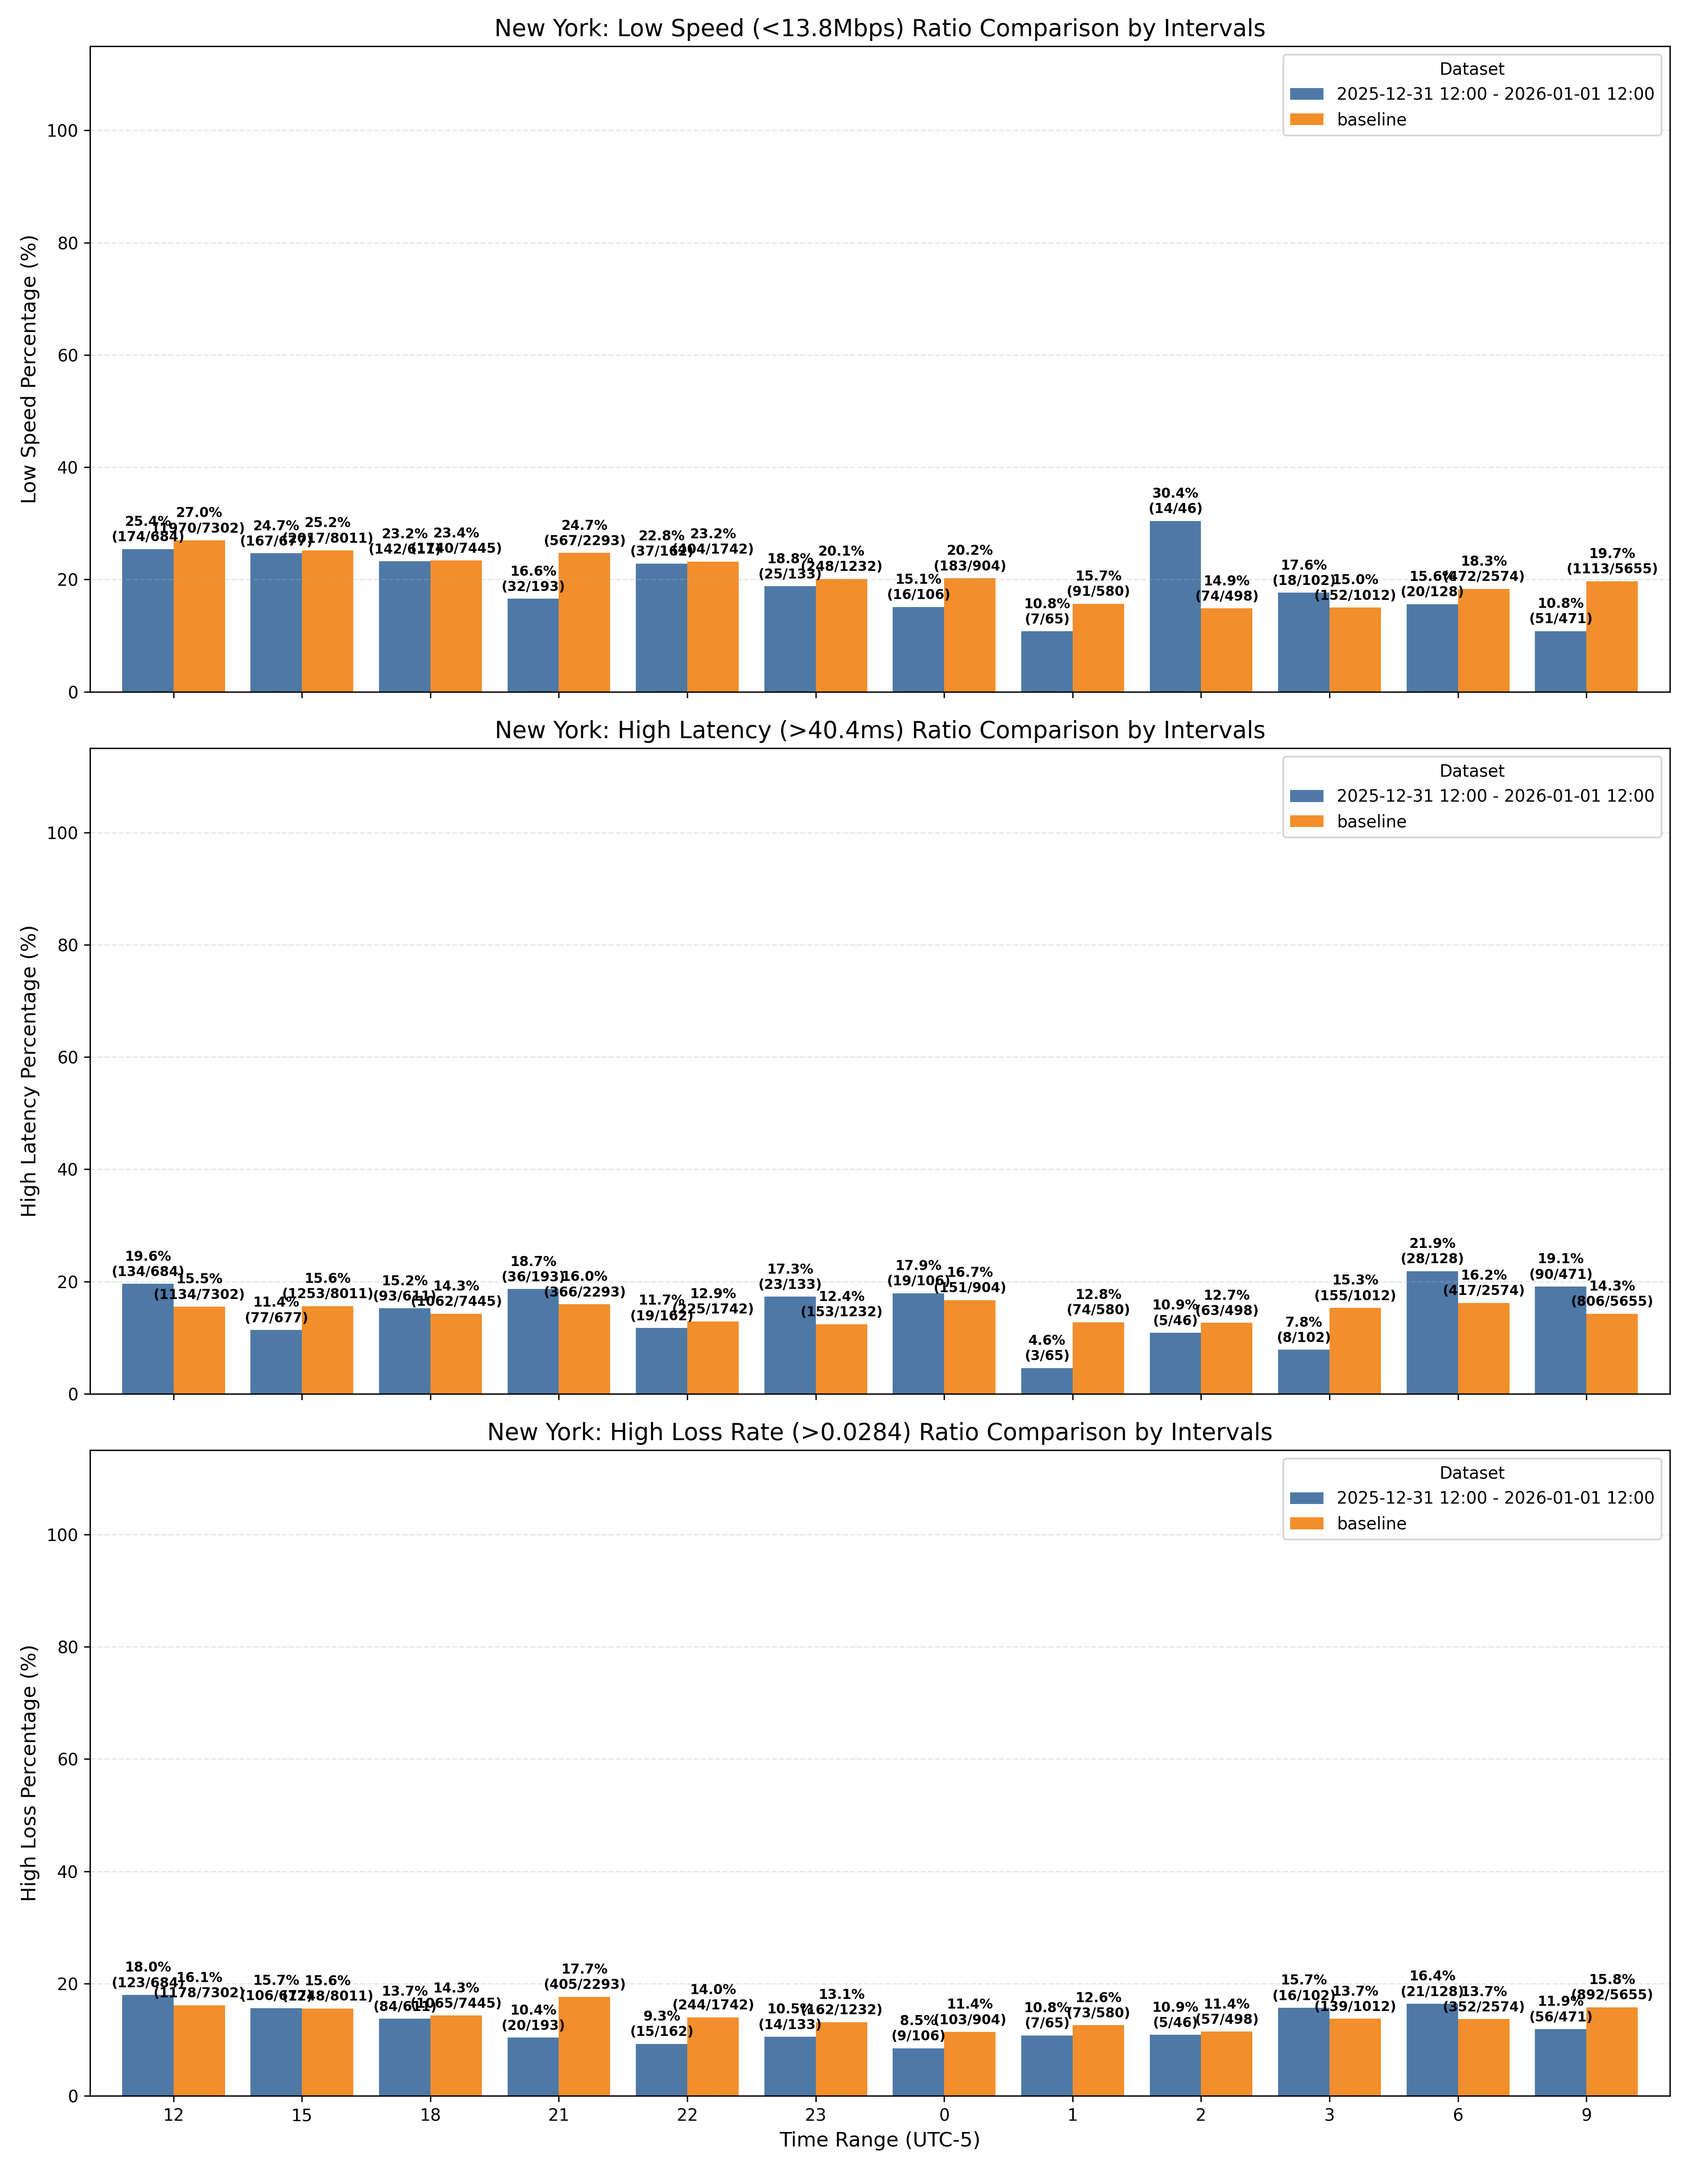
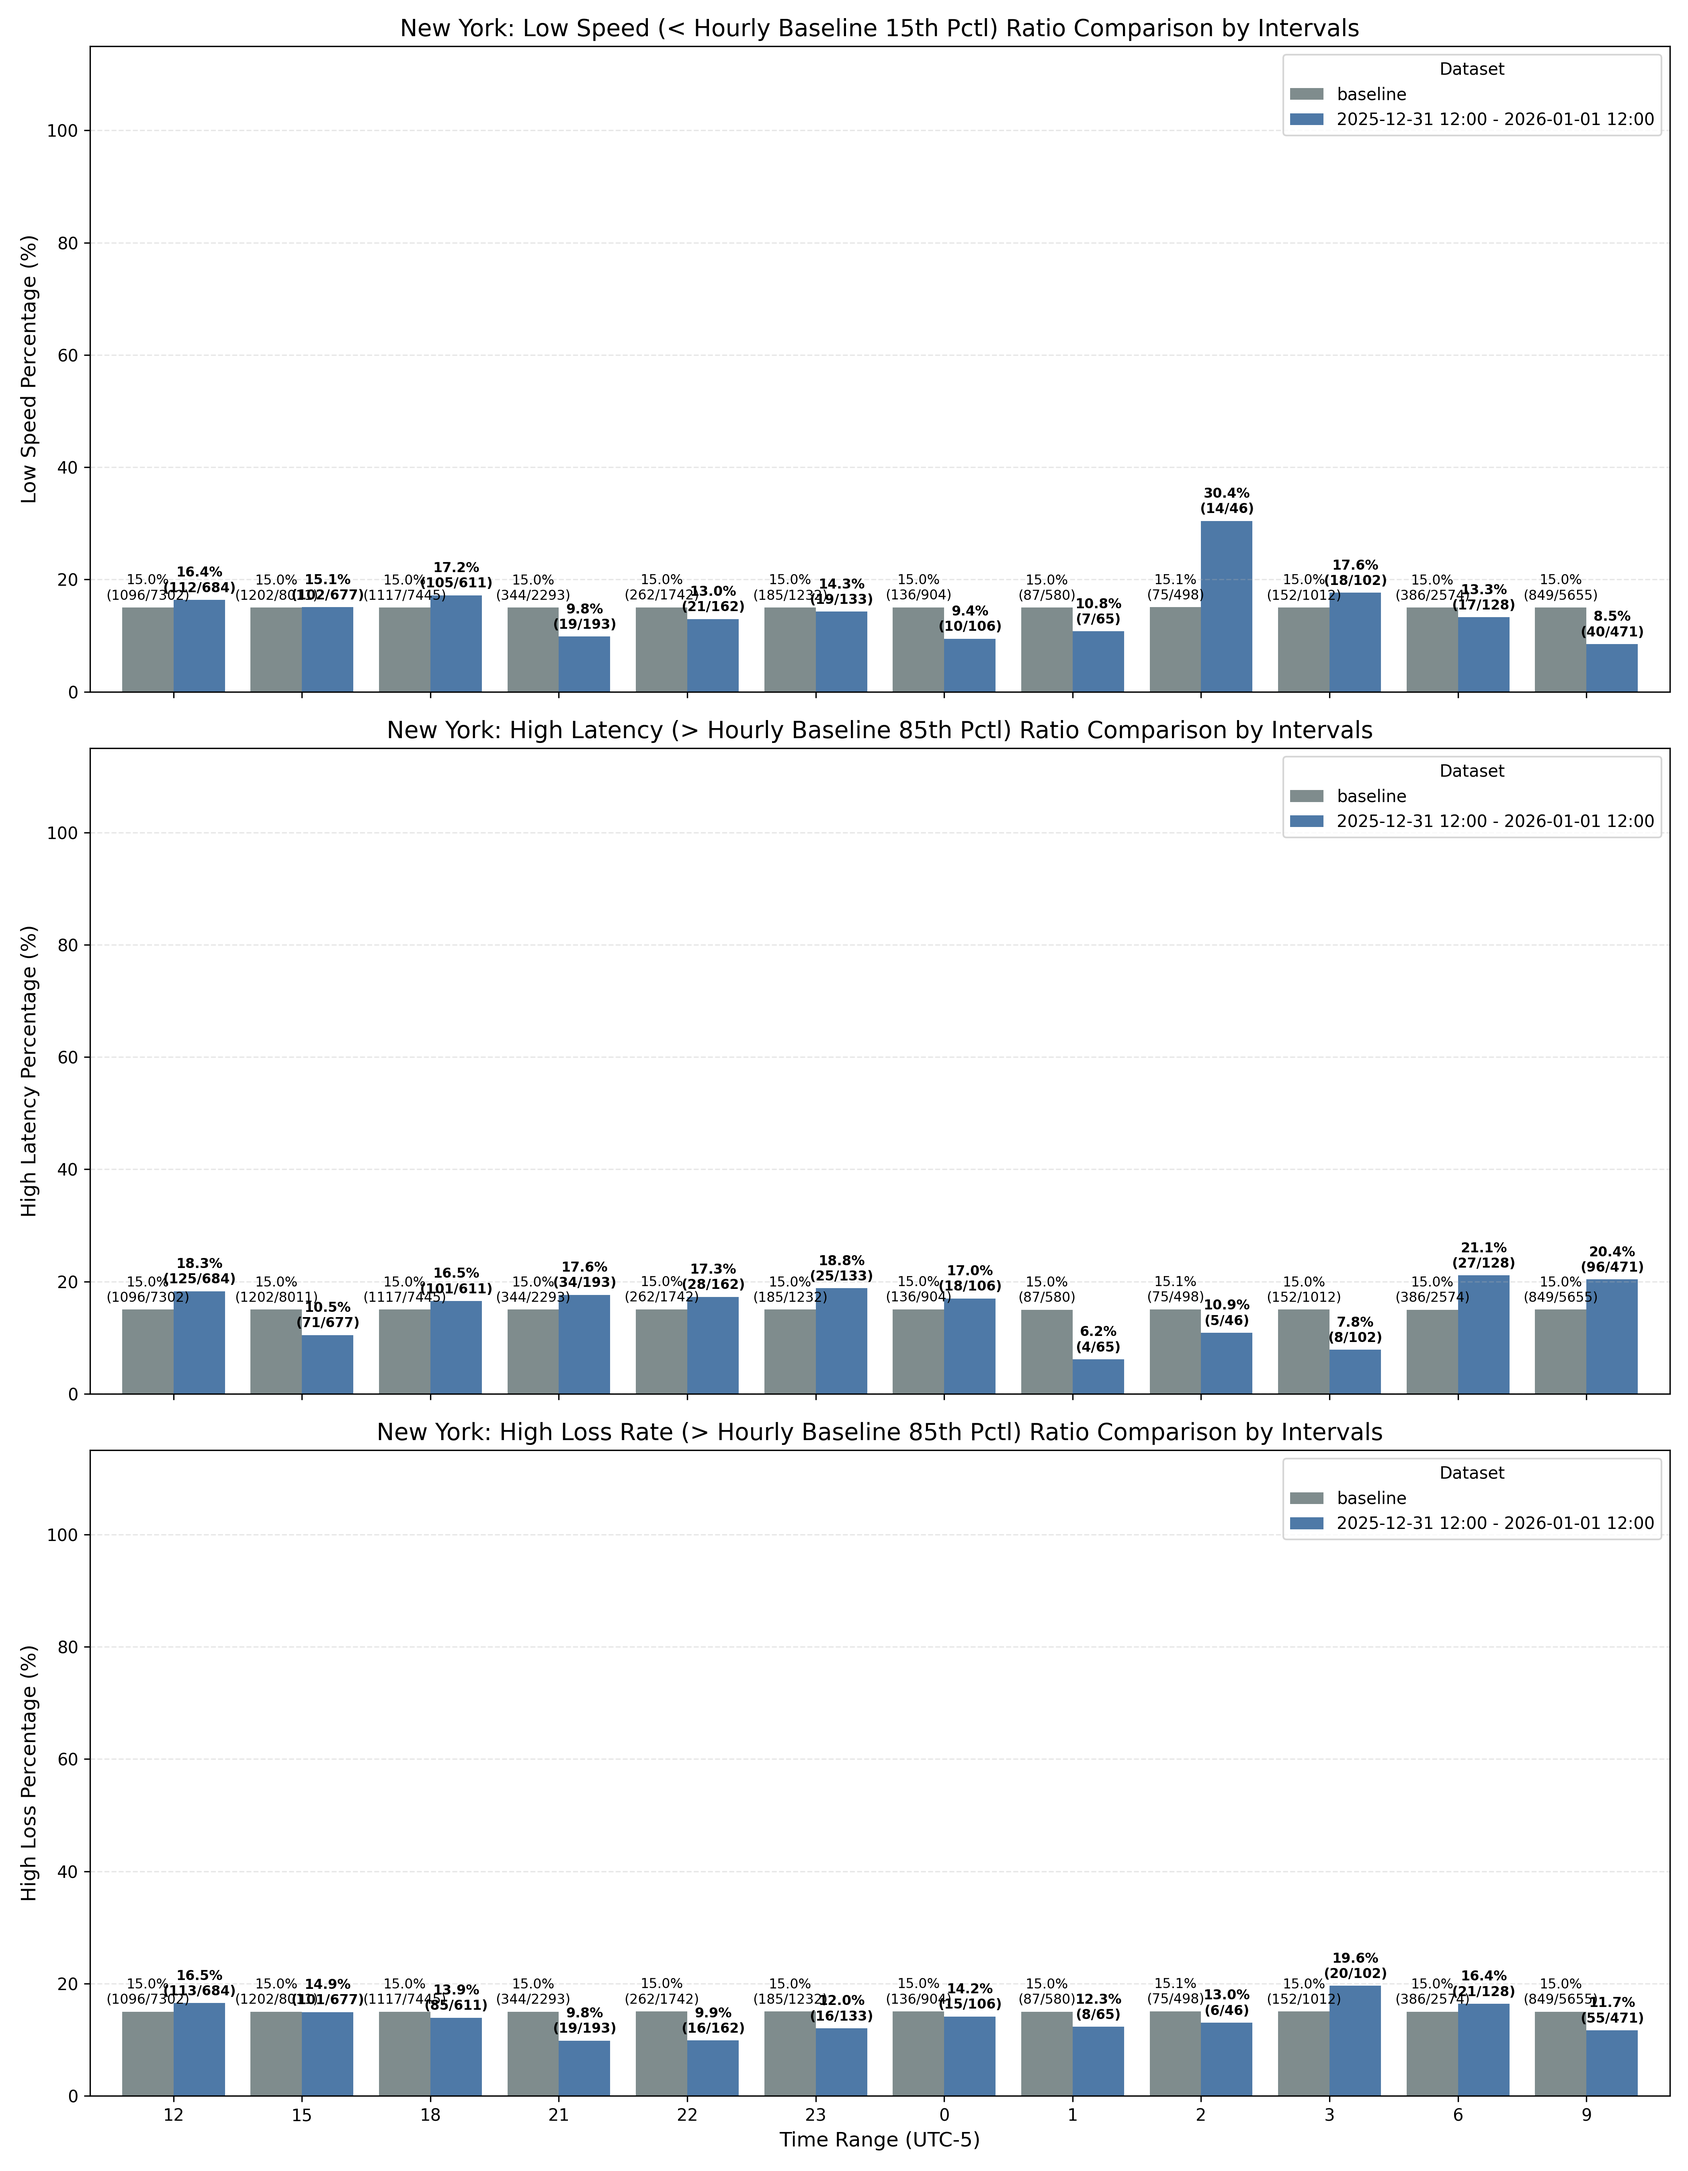
Fix global ratio issue

diff --git a/main.py b/main.py
@@ -1,6 +1,7 @@
 import json
 from typing import List, Dict
 import pandas as pd
+import numpy as np
 import matplotlib.pyplot as plt
 
 CITY = "Taipei City"
@@ -425,47 +426,61 @@ def plot_network_performance_report_2(
     timezone: int,
     output_path: str = "network_performance_report.png",
 ):
-    """輸入多個 df (以 dict 傳入名稱)，將各時段內所有日期的資料加總平均，
-    並繪製三聯子圖。
+    """輸入多個 df (以 dict 傳入，包含 'baseline' 與跨年資料)，
+    依據各時段（HourRange）的平日基準計算動態門檻，並繪製三聯子圖進行對比。
     
     指標調整：
-    - 子圖 1 (Speed): 低於 15% 門檻的資料佔比
-    - 子圖 2 (Latency): 高於 85% 門檻的資料佔比
-    - 子圖 3 (Loss): 高於 85% 門檻的資料佔比
+    - 子圖 1 (Speed): 低於該小時平日 15% 門檻的資料佔比
+    - 子圖 2 (Latency): 高於該小時平日 85% 門檻的資料佔比
+    - 子圖 3 (Loss): 高於該小時平日 85% 門檻的資料佔比
     """
     
     # -------------------------------------------------------------------------
-    # ✨ 核心修改 1：全域門檻計算
-    # 為了讓「高於 85% 占比」有比較意義，我們需要先算出全體（或某一基準）的 85 百分位數作為固定門檻
+    # ✨ 核心修改 1：從 baseline 計算「每小時動態門檻」
     # -------------------------------------------------------------------------
-    all_processed_dfs = []
-    for name, df in df_dict.items():
-        filtered_df = _preprocess_df(df, city).copy()
-        if not filtered_df.empty:
-            filtered_df["Dataset"] = name
-            all_processed_dfs.append(filtered_df)
-            
-    if not all_processed_dfs:
-        print("錯誤：沒有任何有效的繪圖數據。")
+    if "baseline" not in df_dict:
+        print("錯誤：輸入的 df_dict 中必須包含 'baseline' 鍵值作為基準數據。")
         return
 
-    # 合併所有未聚合的原始資料，用來計算全局的第 85 百分位數門檻
-    # (你也可以手動指定固定數值，例如 latency_threshold = 100)
-    global_df = pd.concat(all_processed_dfs, ignore_index=True)
-    speed_threshold = global_df["Latency"].quantile(0.15)
-    latency_threshold = global_df["Latency"].quantile(0.85)
-    loss_threshold = global_df["LossRate"].quantile(0.85)
+    # 先預處理基準資料
+    baseline_filtered = _preprocess_df(df_dict["baseline"], city).copy()
+    if baseline_filtered.empty:
+        print("錯誤：Baseline 數據經過過濾後為空，無法建立門檻。")
+        return
 
-    print(f"依據全體數據計算之 85% 門檻 -> 延遲: {latency_threshold:.2f} ms, 丟包率: {loss_threshold:.4f}")
+    # 依據 HourRange 計算平日每小時的 15% 與 85% 百分位數
+    # 這裡使用 observed=False 確保 Categorical 欄位行為正常
+    thresh_df = (
+        baseline_filtered.groupby("HourRange", observed=False)
+        .agg(
+            speed_threshold=("Speed", lambda x: x.quantile(0.15) if len(x) > 0 else 15.0),
+            latency_threshold=("Latency", lambda x: x.quantile(0.85) if len(x) > 0 else 40.0),
+            loss_threshold=("LossRate", lambda x: x.quantile(0.85) if len(x) > 0 else 0.1),
+        )
+        .reset_index()
+    )
 
+    # -------------------------------------------------------------------------
+    # ✨ 核心修改 2：將動態門檻對齊到所有資料集（含 baseline 自己）並計算超標率
+    # -------------------------------------------------------------------------
     all_groups = []
-    for filtered_df in all_processed_dfs:
-        name = filtered_df["Dataset"].iloc[0]
+    for name, df in df_dict.items():
+        filtered_df = _preprocess_df(df, city).copy()
+        if filtered_df.empty:
+            continue
 
-        # 標記是否超過門檻
-        filtered_df["IsLowSpeed"] = filtered_df["Speed"] < speed_threshold
-        filtered_df["IsHighLatency"] = filtered_df["Latency"] > latency_threshold
-        filtered_df["IsHighLoss"] = filtered_df["LossRate"] > loss_threshold
+        # 將該小時對應的門檻透過 merge 併入當前資料集
+        filtered_df = filtered_df.merge(thresh_df, on="HourRange", how="left")
+        
+        # 安全防護：若有特定時段在 baseline 沒出現，給予預設值
+        filtered_df["speed_threshold"] = filtered_df["speed_threshold"].fillna(15.0)
+        filtered_df["latency_threshold"] = filtered_df["latency_threshold"].fillna(40.0)
+        filtered_df["loss_threshold"] = filtered_df["loss_threshold"].fillna(0.1)
+
+        # 標記是否超越該小時的動態門檻
+        filtered_df["IsLowSpeed"] = filtered_df["Speed"] < filtered_df["speed_threshold"]
+        filtered_df["IsHighLatency"] = filtered_df["Latency"] > filtered_df["latency_threshold"]
+        filtered_df["IsHighLoss"] = filtered_df["LossRate"] > filtered_df["loss_threshold"]
 
         # 一次性聚合所有需要的統計量（數量與分子）
         grouped = (
@@ -484,27 +499,32 @@ def plot_network_performance_report_2(
         )
         
         # 計算各指標的「超標百分比」與「標籤文字 (分子/分母)」
-        grouped["LowSpeedPercentage"] = (grouped["Speed_Sum"] / grouped["Speed_Count"]) * 100
-        grouped["SpeedLabelText"] = grouped["Speed_Sum"].astype(str) + "/" + grouped["Speed_Count"].astype(str)
+        grouped["LowSpeedPercentage"] = (grouped["Speed_Sum"] / grouped["Speed_Count"].replace(0, np.nan)) * 100
+        grouped["SpeedLabelText"] = grouped["Speed_Sum"].astype(str) + "/" + grouped["Speed_Count"].astype(str) # type: ignore
         
-        grouped["HighLatencyPercentage"] = (grouped["Latency_Sum"] / grouped["Latency_Count"]) * 100
-        grouped["LatencyLabelText"] = grouped["Latency_Sum"].astype(str) + "/" + grouped["Latency_Count"].astype(str)
+        grouped["HighLatencyPercentage"] = (grouped["Latency_Sum"] / grouped["Latency_Count"].replace(0, np.nan)) * 100
+        grouped["LatencyLabelText"] = grouped["Latency_Sum"].astype(str) + "/" + grouped["Latency_Count"].astype(str) # type: ignore
         
-        grouped["HighLossPercentage"] = (grouped["Loss_Sum"] / grouped["Loss_Count"]) * 100
-        grouped["LossLabelText"] = grouped["Loss_Sum"].astype(str) + "/" + grouped["Loss_Count"].astype(str)
+        grouped["HighLossPercentage"] = (grouped["Loss_Sum"] / grouped["Loss_Count"].replace(0, np.nan)) * 100
+        grouped["LossLabelText"] = grouped["Loss_Sum"].astype(str) + "/" + grouped["Loss_Count"].astype(str) # type: ignore
         
         grouped["Dataset"] = name
         all_groups.append(grouped)
 
+    if not all_groups:
+        print("錯誤：沒有任何有效的繪圖數據。")
+        return
+
     # 合併多組資料
     combined = pd.concat(all_groups, ignore_index=True)
+    combined.to_csv("test.csv", index=False)
 
     # 定義自訂的 X 軸時段順序
     custom_order = ["12", "15", "18", "21", "22", "23", "0", "1", "2", "3", "6", "9"]
     combined["HourRange"] = pd.Categorical(combined["HourRange"], categories=custom_order, ordered=True)
     combined = combined.sort_values("HourRange")
 
-    # 轉置各指標資料成繪圖矩陣
+    # 轉置各指標資料成繪圖矩陣（此時 columns 會包含 'baseline' 與跨年夜標籤）
     pivot_speed = combined.pivot(index="HourRange", columns="Dataset", values="LowSpeedPercentage").fillna(0)
     pivot_speed_labels = combined.pivot(index="HourRange", columns="Dataset", values="SpeedLabelText").fillna("0/0")
     
@@ -514,23 +534,35 @@ def plot_network_performance_report_2(
     pivot_loss = combined.pivot(index="HourRange", columns="Dataset", values="HighLossPercentage").fillna(0)
     pivot_loss_labels = combined.pivot(index="HourRange", columns="Dataset", values="LossLabelText").fillna("0/0")
 
+    # 確保 baseline 在圖例/柱狀圖排序中排在最前面，方便對比
+    if "baseline" in pivot_speed.columns:
+        cols_order = ["baseline"] + [c for c in pivot_speed.columns if c != "baseline"]
+        pivot_speed = pivot_speed[cols_order]
+        pivot_speed_labels = pivot_speed_labels[cols_order]
+        pivot_latency = pivot_latency[cols_order]
+        pivot_latency_labels = pivot_latency_labels[cols_order]
+        pivot_loss = pivot_loss[cols_order]
+        pivot_loss_labels = pivot_loss_labels[cols_order]
+
     # 建立 3x1 的畫布
     fig, (ax1, ax2, ax3) = plt.subplots(3, 1, figsize=(14, 18), sharex=True)
-    colors = ["#4E79A7", "#F28E2B", "#E15759", "#76B7B2", "#59A14F", "#EDC948"]
+    
+    # 調整顏色配比：基準組用灰色/冷色，對照組用鮮明色
+    colors = ["#7F8C8D", "#4E79A7", "#F28E2B", "#E15759", "#76B7B2"]
     color_slice = colors[:len(pivot_speed.columns)]
 
-    # --- 子圖 1: 低速比率 (Speed) - 保持不變 ---
+    # --- ✨ 核心修改 3：子圖標題與說明文字更新（因為每小時門檻不同，改標註百分位數定義） ---
+    # 子圖 1: 低速比率 (Speed)
     pivot_speed.plot(kind="bar", ax=ax1, color=color_slice, width=0.8)
-    ax1.set_title(f"{city}: Low Speed (<{speed_threshold:.1f}Mbps) Ratio Comparison by Intervals", fontsize=14)
+    ax1.set_title(f"{city}: Low Speed (< Hourly Baseline 15th Pctl) Ratio Comparison by Intervals", fontsize=14)
     ax1.set_ylabel("Low Speed Percentage (%)", fontsize=12)
     ax1.set_ylim(0, 115)
     ax1.grid(axis="y", linestyle="--", alpha=0.3)
     ax1.legend(title="Dataset")
 
-    # --- ✨ 核心修改 2：子圖 2 延遲與子圖 3 丟包率的繪圖與標註更新 ---
     # 子圖 2: 高延遲比率 (Latency)
     pivot_latency.plot(kind="bar", ax=ax2, color=color_slice, width=0.8)
-    ax2.set_title(f"{city}: High Latency (>{latency_threshold:.1f}ms) Ratio Comparison by Intervals", fontsize=14)
+    ax2.set_title(f"{city}: High Latency (> Hourly Baseline 85th Pctl) Ratio Comparison by Intervals", fontsize=14)
     ax2.set_ylabel("High Latency Percentage (%)", fontsize=12)
     ax2.set_ylim(0, 115)
     ax2.grid(axis="y", linestyle="--", alpha=0.3)
@@ -538,7 +570,7 @@ def plot_network_performance_report_2(
 
     # 子圖 3: 高丟包比率 (Packet Loss)
     pivot_loss.plot(kind="bar", ax=ax3, color=color_slice, width=0.8)
-    ax3.set_title(f"{city}: High Loss Rate (>{loss_threshold:.4f}) Ratio Comparison by Intervals", fontsize=14)
+    ax3.set_title(f"{city}: High Loss Rate (> Hourly Baseline 85th Pctl) Ratio Comparison by Intervals", fontsize=14)
     ax3.set_ylabel("High Loss Percentage (%)", fontsize=12)
     ax3.set_xlabel(f"Time Range (UTC{timezone:+d})", fontsize=12)
     ax3.set_ylim(0, 115)
@@ -546,7 +578,7 @@ def plot_network_performance_report_2(
     ax3.legend(title="Dataset")
     ax3.set_xticklabels(pivot_loss.index, rotation=0)
 
-    # 統一三個子圖的文字標註邏輯 (因為現在全部都是百分比與「分子/分母」格式)
+    # 統一三個子圖的文字標註邏輯
     axes_and_labels = [
         (ax1, pivot_speed, pivot_speed_labels),
         (ax2, pivot_latency, pivot_latency_labels),
@@ -572,13 +604,13 @@ def plot_network_performance_report_2(
                     ha="center",
                     va="bottom",
                     fontsize=8,
-                    fontweight="bold" if h > 0 else "normal",
+                    fontweight="bold" if h > 15.1 or (dataset_name != "baseline" and h > 0) else "normal",
                 )
 
     plt.tight_layout()
     plt.savefig(output_path, dpi=300)
     plt.close(fig)
-    print(f"成功：網路效能三聯綜合圖已排序並儲存至 {output_path}")
+    print(f"成功：網路效能動態基準對比圖已儲存至 {output_path}")
 
 def plot_ny_network_report(
     df_dict: Dict[str, pd.DataFrame],
